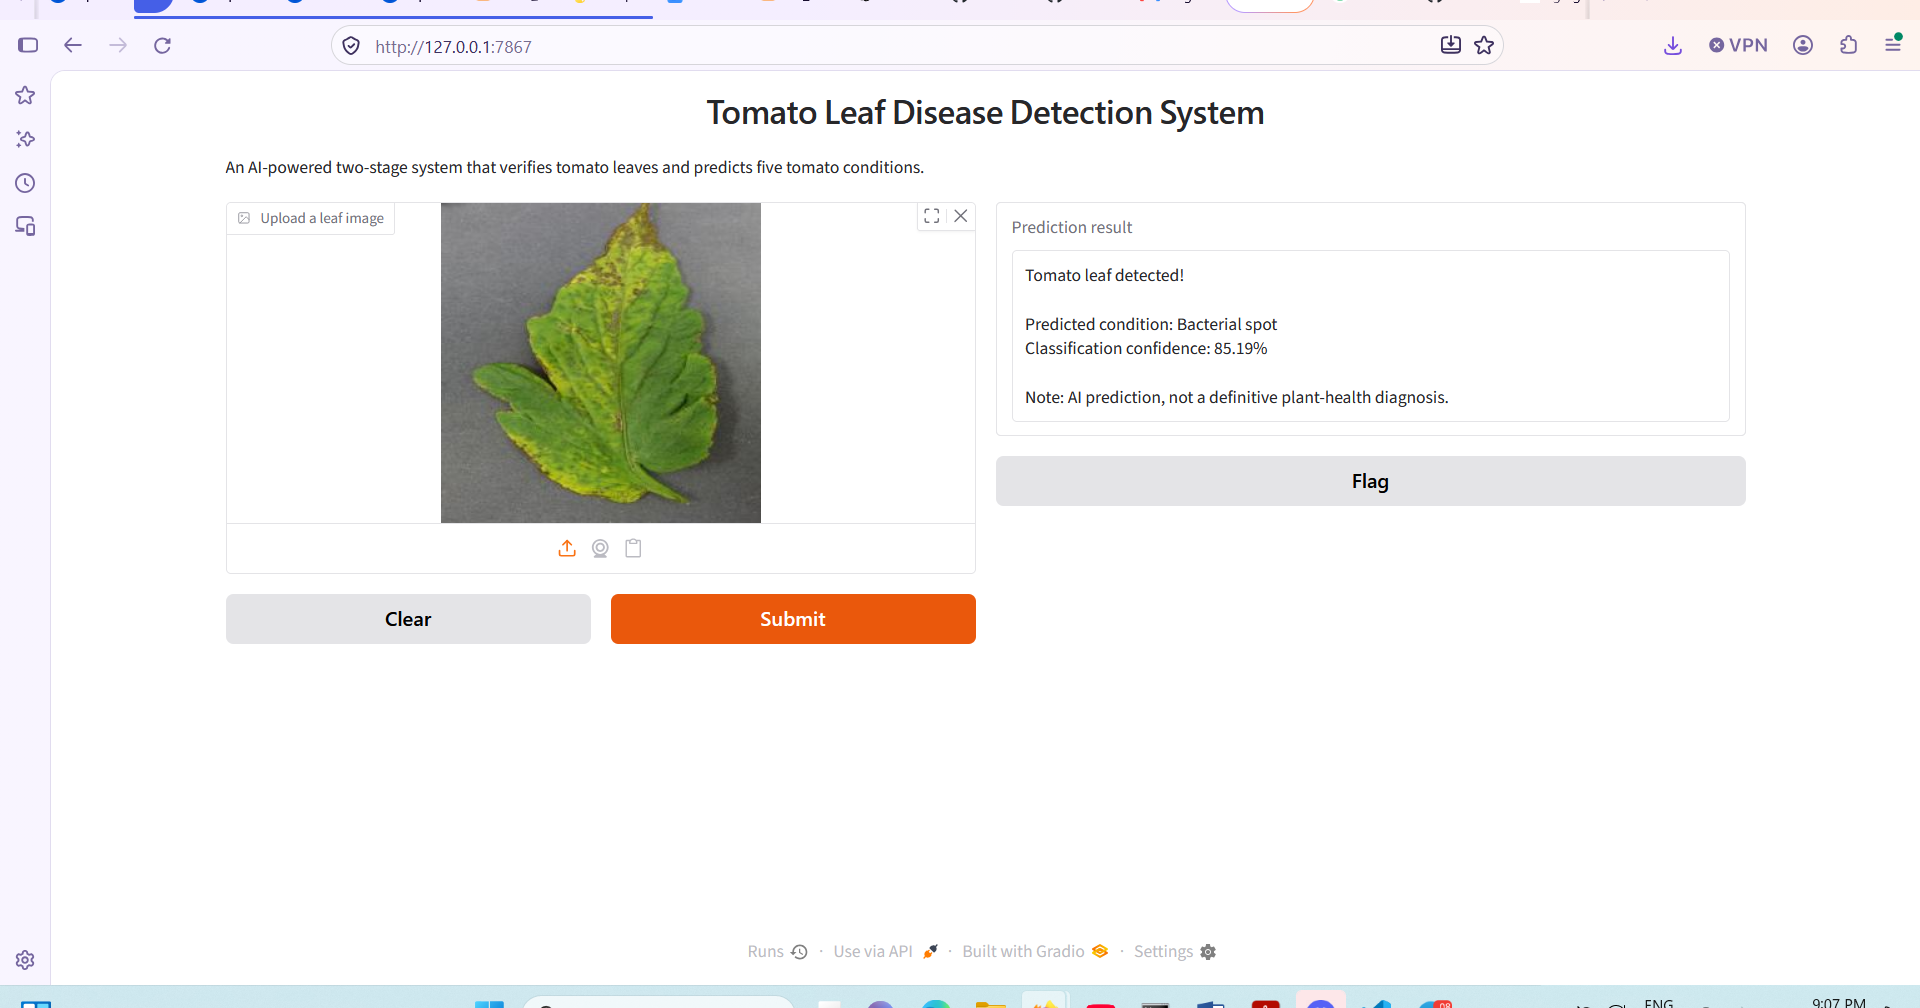
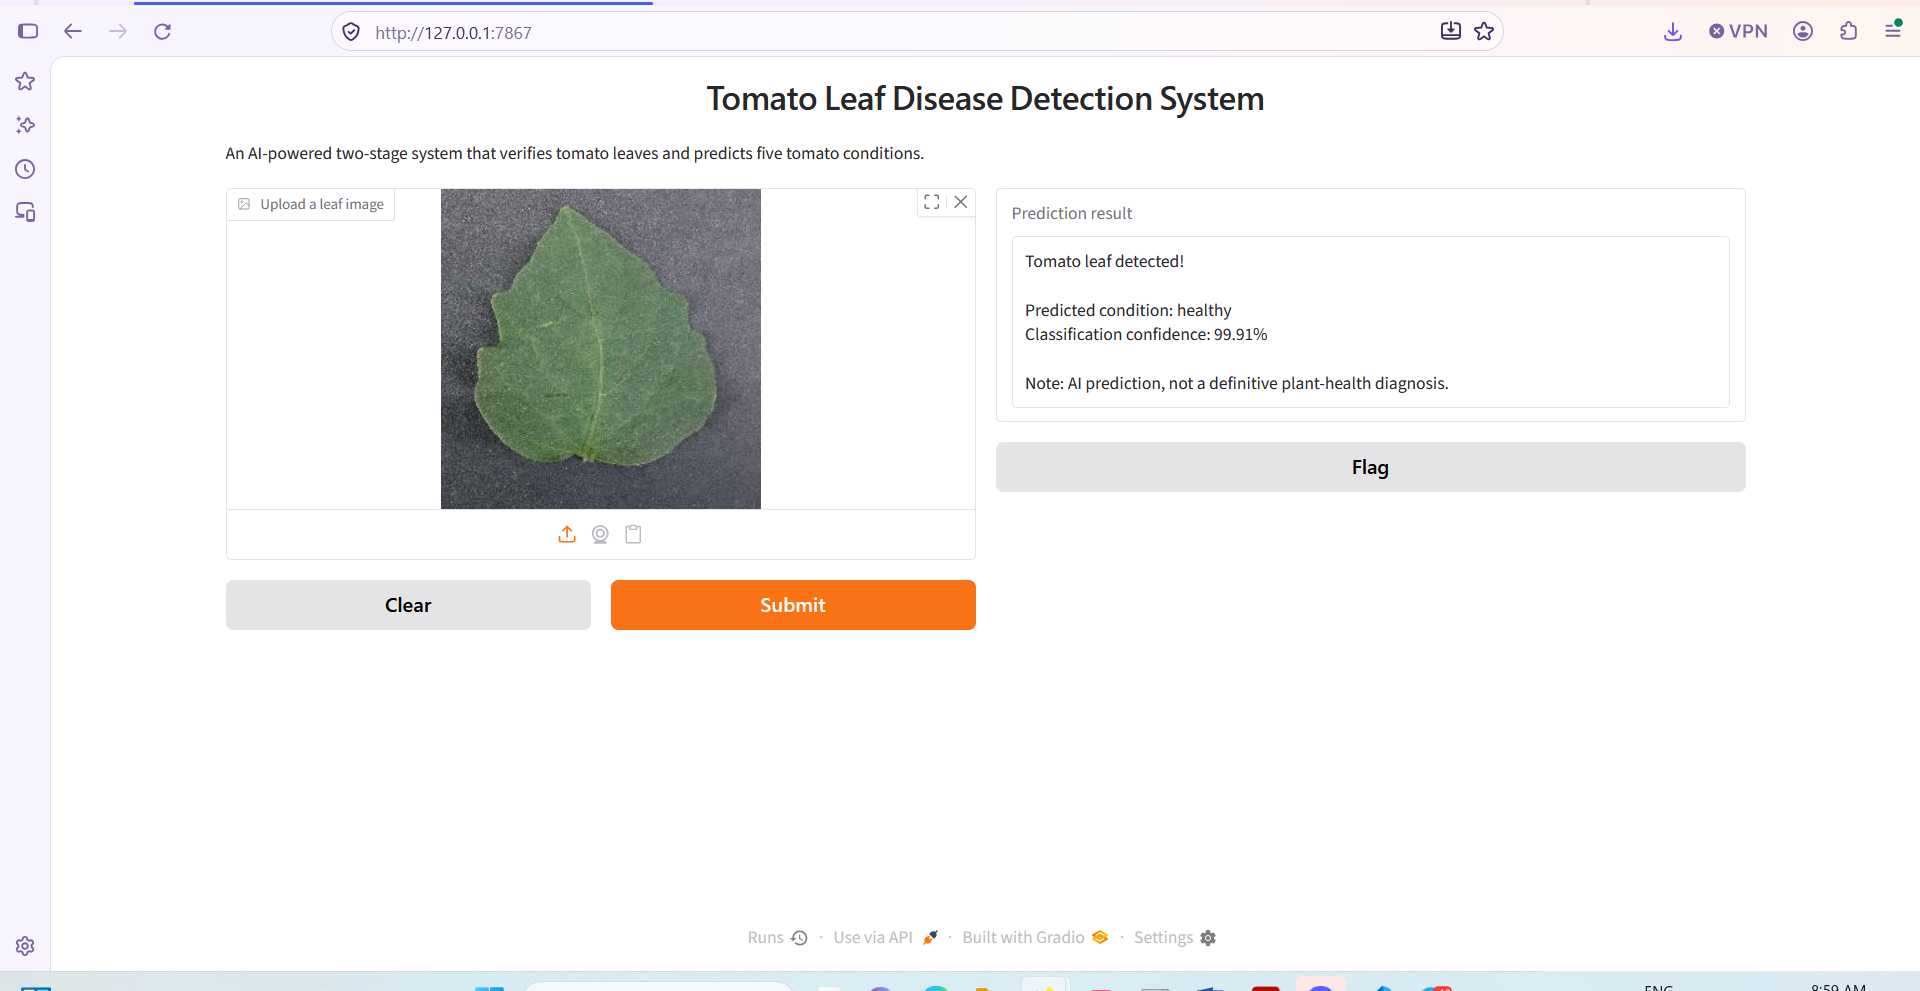
correct screenshots filenames and README links

diff --git a/README.md b/README.md
@@ -185,13 +185,8 @@ Developed as a practical deep-learning and computer vision project using Python 
 *This project demonstrates the development, evaluation, and deployment of a two-stage deep-learning image classification system.*
 
 
-## Application Screenshots
-
-### Application Interface
 ![Application Interface](Screenshots/app_interface.png)
 
-### Healthy Tomato Prediction
 ![Healthy Tomato Prediction](Screenshots/healthy_prediction.png)
 
-### Diseased Tomato Prediction
-![Diseased Tomato Prediction](Screenshots/disease_prediction.png)
+![Diseased Tomato Prediction](Screenshots/diseased_prediction.png)
